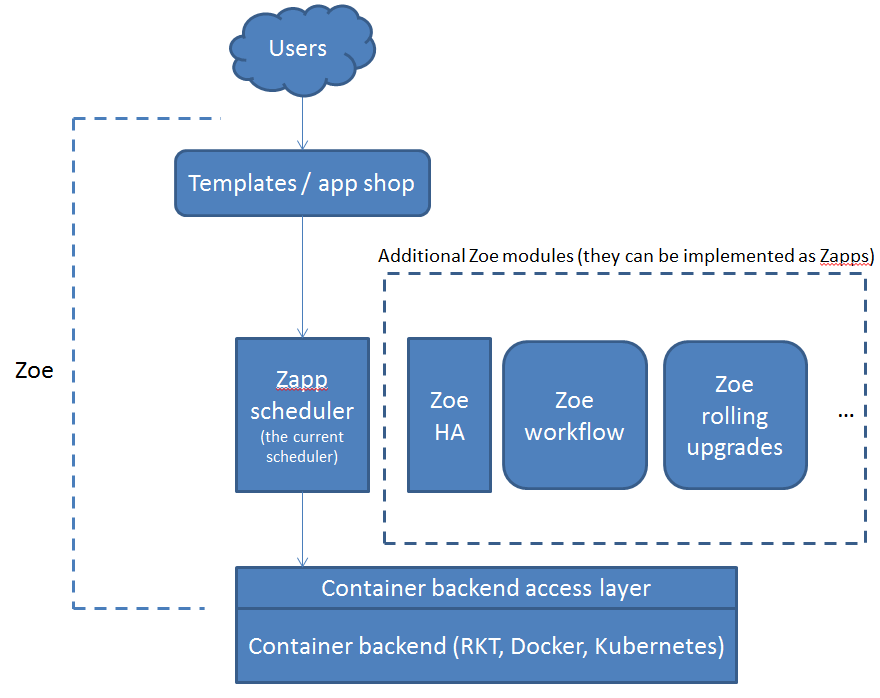
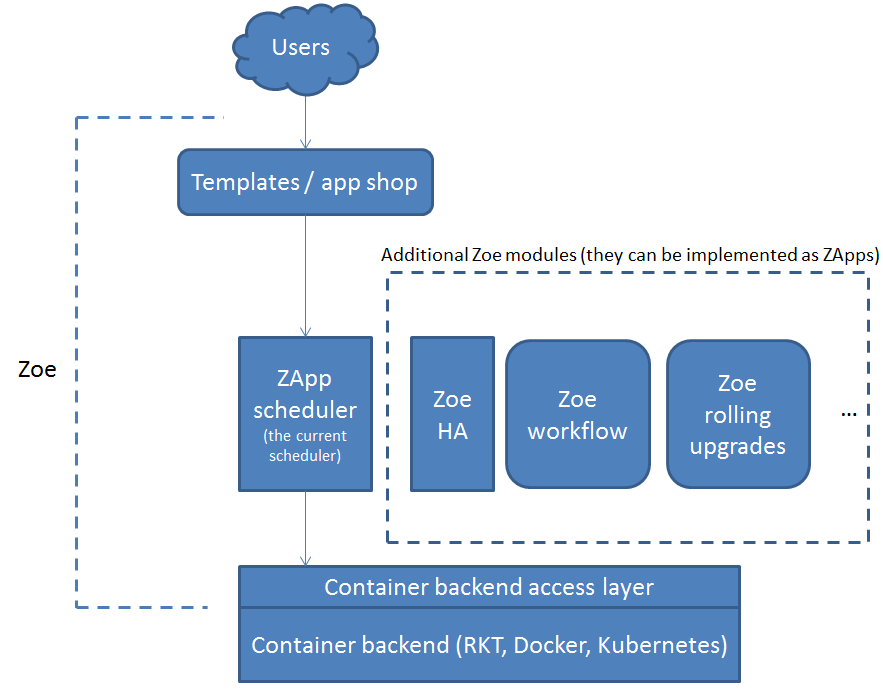
Minor fixes

diff --git a/docs/vision.rst b/docs/vision.rst
@@ -5,7 +5,7 @@ Vision for Zoe
 
 Zoe focus is data analytics. This focus helps defining a clear set of objectives and priorities for the project and avoid the risk of competing directly with generic infrastructure managers like Kubernetes or Swarm. Zoe instead sits on top of these "cloud managers" to provide a simpler interface to end users who have no interest in the intricacies of container infrastructures.
 
-Data analytic applications do not work in isolation. They need data, that may be stored or streamed, and they generate logs, that may have to be analyzed for debugging or stored for auditing. Data layers, in turn, need health monitoring. All these tools, frameworks, distributed filesystems, object stores, form a galaxy that revolves around the analytic applications. For simplicity we will call these "support applications".
+Data analytic applications do not work in isolation. They need data, that may be stored or streamed, and they generate logs, that may have to be analyzed for debugging or stored for auditing. Data layers, in turn, need health monitoring. All these tools, frameworks, distributed filesystems, object stores, form a galaxy that revolves around analytic applications. For simplicity we will call these "support applications".
 
 To offer an integrated, modern solution to data analysis Zoe must support both analytic and support applications, even if they have very different users and requirements.
 
@@ -20,16 +20,17 @@ Deviation from the current ZApp terminology
 
 In the current Zoe implementation (0.10.x) ZApps are self-contained descriptions of a set of cooperating processes. They get submitted once, to request the start-up of an execution. This fits well the model of a single spark job or of a throw-away jupyter notebook.
 
-We need to revise a bit this terminology: ZApps remain the top level, user-visible entity. The ZApp building blocks, analytic engines or support tools, are called frameworks. A framework, by itself, cannot be run. It lacks configuration or a user-provided binary to execute, for example. Each framework is composed of one or more processes.
+We need to revise a bit this terminology: ZApps remain the top level, user-visible entity. The ZApp building blocks, analytic engines or support tools, are called frameworks. A framework, by itself, cannot be run. It lacks configuration or a user-provided binary to execute, for example. Each framework is composed of one or more processes, that come with some metadata of the needed configuration and a container image.
 
 A few examples:
 
-- A jupyter notebook, by itself, is a framework in Zoe terminology. It lacks configuration that tells it which kernels to enable or on which port to listen to. It is a framework composed by just one process.
+- A Jupyter notebook, by itself, is a framework in Zoe terminology. It lacks configuration that tells it which kernels to enable or on which port to listen to. It is a framework composed by just one process.
 - A Spark cluster is another framework. By itself it does nothing. It can be connected to a notebook, or it can be given a jar file and some data to process.
+- A "Jupyter with R listening on port 8080" ZApp is a Jupyter framework that has been configured with certain options and made runnable
 
 To create a ZApp you need to put together one or more frameworks and add some configuration (framework-dependent) that tells them how to behave.
 
-A ZApp shop could contain both frameworks (that user must combine together) and full-featured ZApps, whenever it is possible.
+A ZApp shop could contain both frameworks (that the user must combine together) and full-featured ZApps.
 
 Nothing prevents certain ZApp attributes to be "templated", like resource requests or elastic process counts, for example.
 
@@ -50,10 +51,11 @@ The core of Zoe remains very simple to understand, while opening the door to mor
 In the figure there are three examples of such modules:
 
 - Zoe-HA: monitors and performs tasks related to high availability, both for Zoe components and for running user executions. This modules could take care of maintaining a certain replication factor, or making sure a certain service is restarted in case of failures, updating a load balancer or a DNS entry
-- Zoe rolling upgrades: it can help the system administrator perform rolling upgrades of long-running ZApps
+- Zoe rolling upgrades: performs rolling upgrades of long-running ZApps
 - Workflows (see the section below)
 
 Other examples could be:
+
 - Zoe-storage: for managing volumes and associated constraints
 
 The modules should try to re-use as much as possible the functionality already available in the backends. A simple Zoe installation could run on a single Docker engine available locally and provide a reduced set of features, while a full-fledged install could run on top of Kubernetes and provide all the large-scale deployment features that such platform already implements.
@@ -67,4 +69,4 @@ A few examples of workflows:
 - run a job whenever the size of a file/directory/bucket on a certain data layer reaches 5GB (more complex triggers)
 - combinations of all the above
 
-A complete workflow system for data analytic is very complex and is a whole different project that runs on top of Zoe core functionality. Zoe-workflow should be implemented incrementally, starting with the basics. There is a lot of theory and by itself it is project of the same size of Zoe itself. An example of a full-featured workflow system is http://oozie.apache.org/
+A complete workflow system for data analytic is very complex. There is a lot of theory on this topic and zoe-workflow is a project of the same size as Zoe itself. An example of a full-featured workflow system for Hadoop is http://oozie.apache.org/

diff --git a/docs/zapps/classification.rst b/docs/zapps/classification.rst
@@ -5,7 +5,7 @@ Classification
 
 Zoe runs processes inside containers and the Zoe application description is very generic, allowing any kind of application to be described in Zoe and submitted for execution. While the main focus of Zoe are so-called "analytic applications", there are many other tools that can be run on the same cluster, for monitoring, storage, log management, history servers, etc. These applications can be described in Zoe and executed, but they have quite different scheduling constraint.
 
-Please note that in this context an "elastic" service is a service that "can be automatically resized". HDFS can be resized, but it is done as an administrative operation that requires setting up partitions and managing the network and disk traffic.
+Please note that in this context an "elastic" service is a service that "can be automatically resized". HDFS can be resized, but it is done as an administrative operation that requires setting up partitions and managing the network and disk load caused by rebalancing. For this reason we do not consider it as "elastic".
 
 - Long running: potentially will never terminate
 
@@ -54,8 +54,8 @@ Please note that in this context an "elastic" service is a service that "can be 
     - MPI
     - Tensorflow
 
-All the applications in the **long-running** category need to be deployed, managed, upgraded and monitored since they are part of the cluster infrastructure. The Jupyter notebook at first glance may seem an out of place, but in fact it is an interface to access different computing systems and languages, sometimes integrated in Jupyter itself, but also distributed in other nodes, with Spark or Tensorflow backends. As an interface the user may expect for it to be always there, making it part of the infrastructure.
+All the applications in the **long-running** category need to be deployed, managed, upgraded and monitored since they are part of the cluster infrastructure. The Jupyter notebook at first glance may seem out of place, but in fact it is an interface to access different computing systems and languages, sometimes integrated in Jupyter itself, but also distributed in other nodes, with Spark or Tensorflow backends. As an interface the user may expect for it to be always there, making it part of the infrastructure.
 
-The **elastic, long-running** applications have a degree more of flexibility, that can be taken into account by Zoe. The have all the same needs as the non-elastic applications, but they can also be scaled according to many criteria (priority, latency, data volume).
+The **elastic, long-running** applications have a degree more of flexibility, that can be taken into account by Zoe. They all have the same needs as the non-elastic applications, but they can also be scaled according to many criteria (priority, latency, data volume).
 
 The applications in the **ephemeral** category, instead, will eventually terminate by themselves: a batch job is a good example of such applications.
